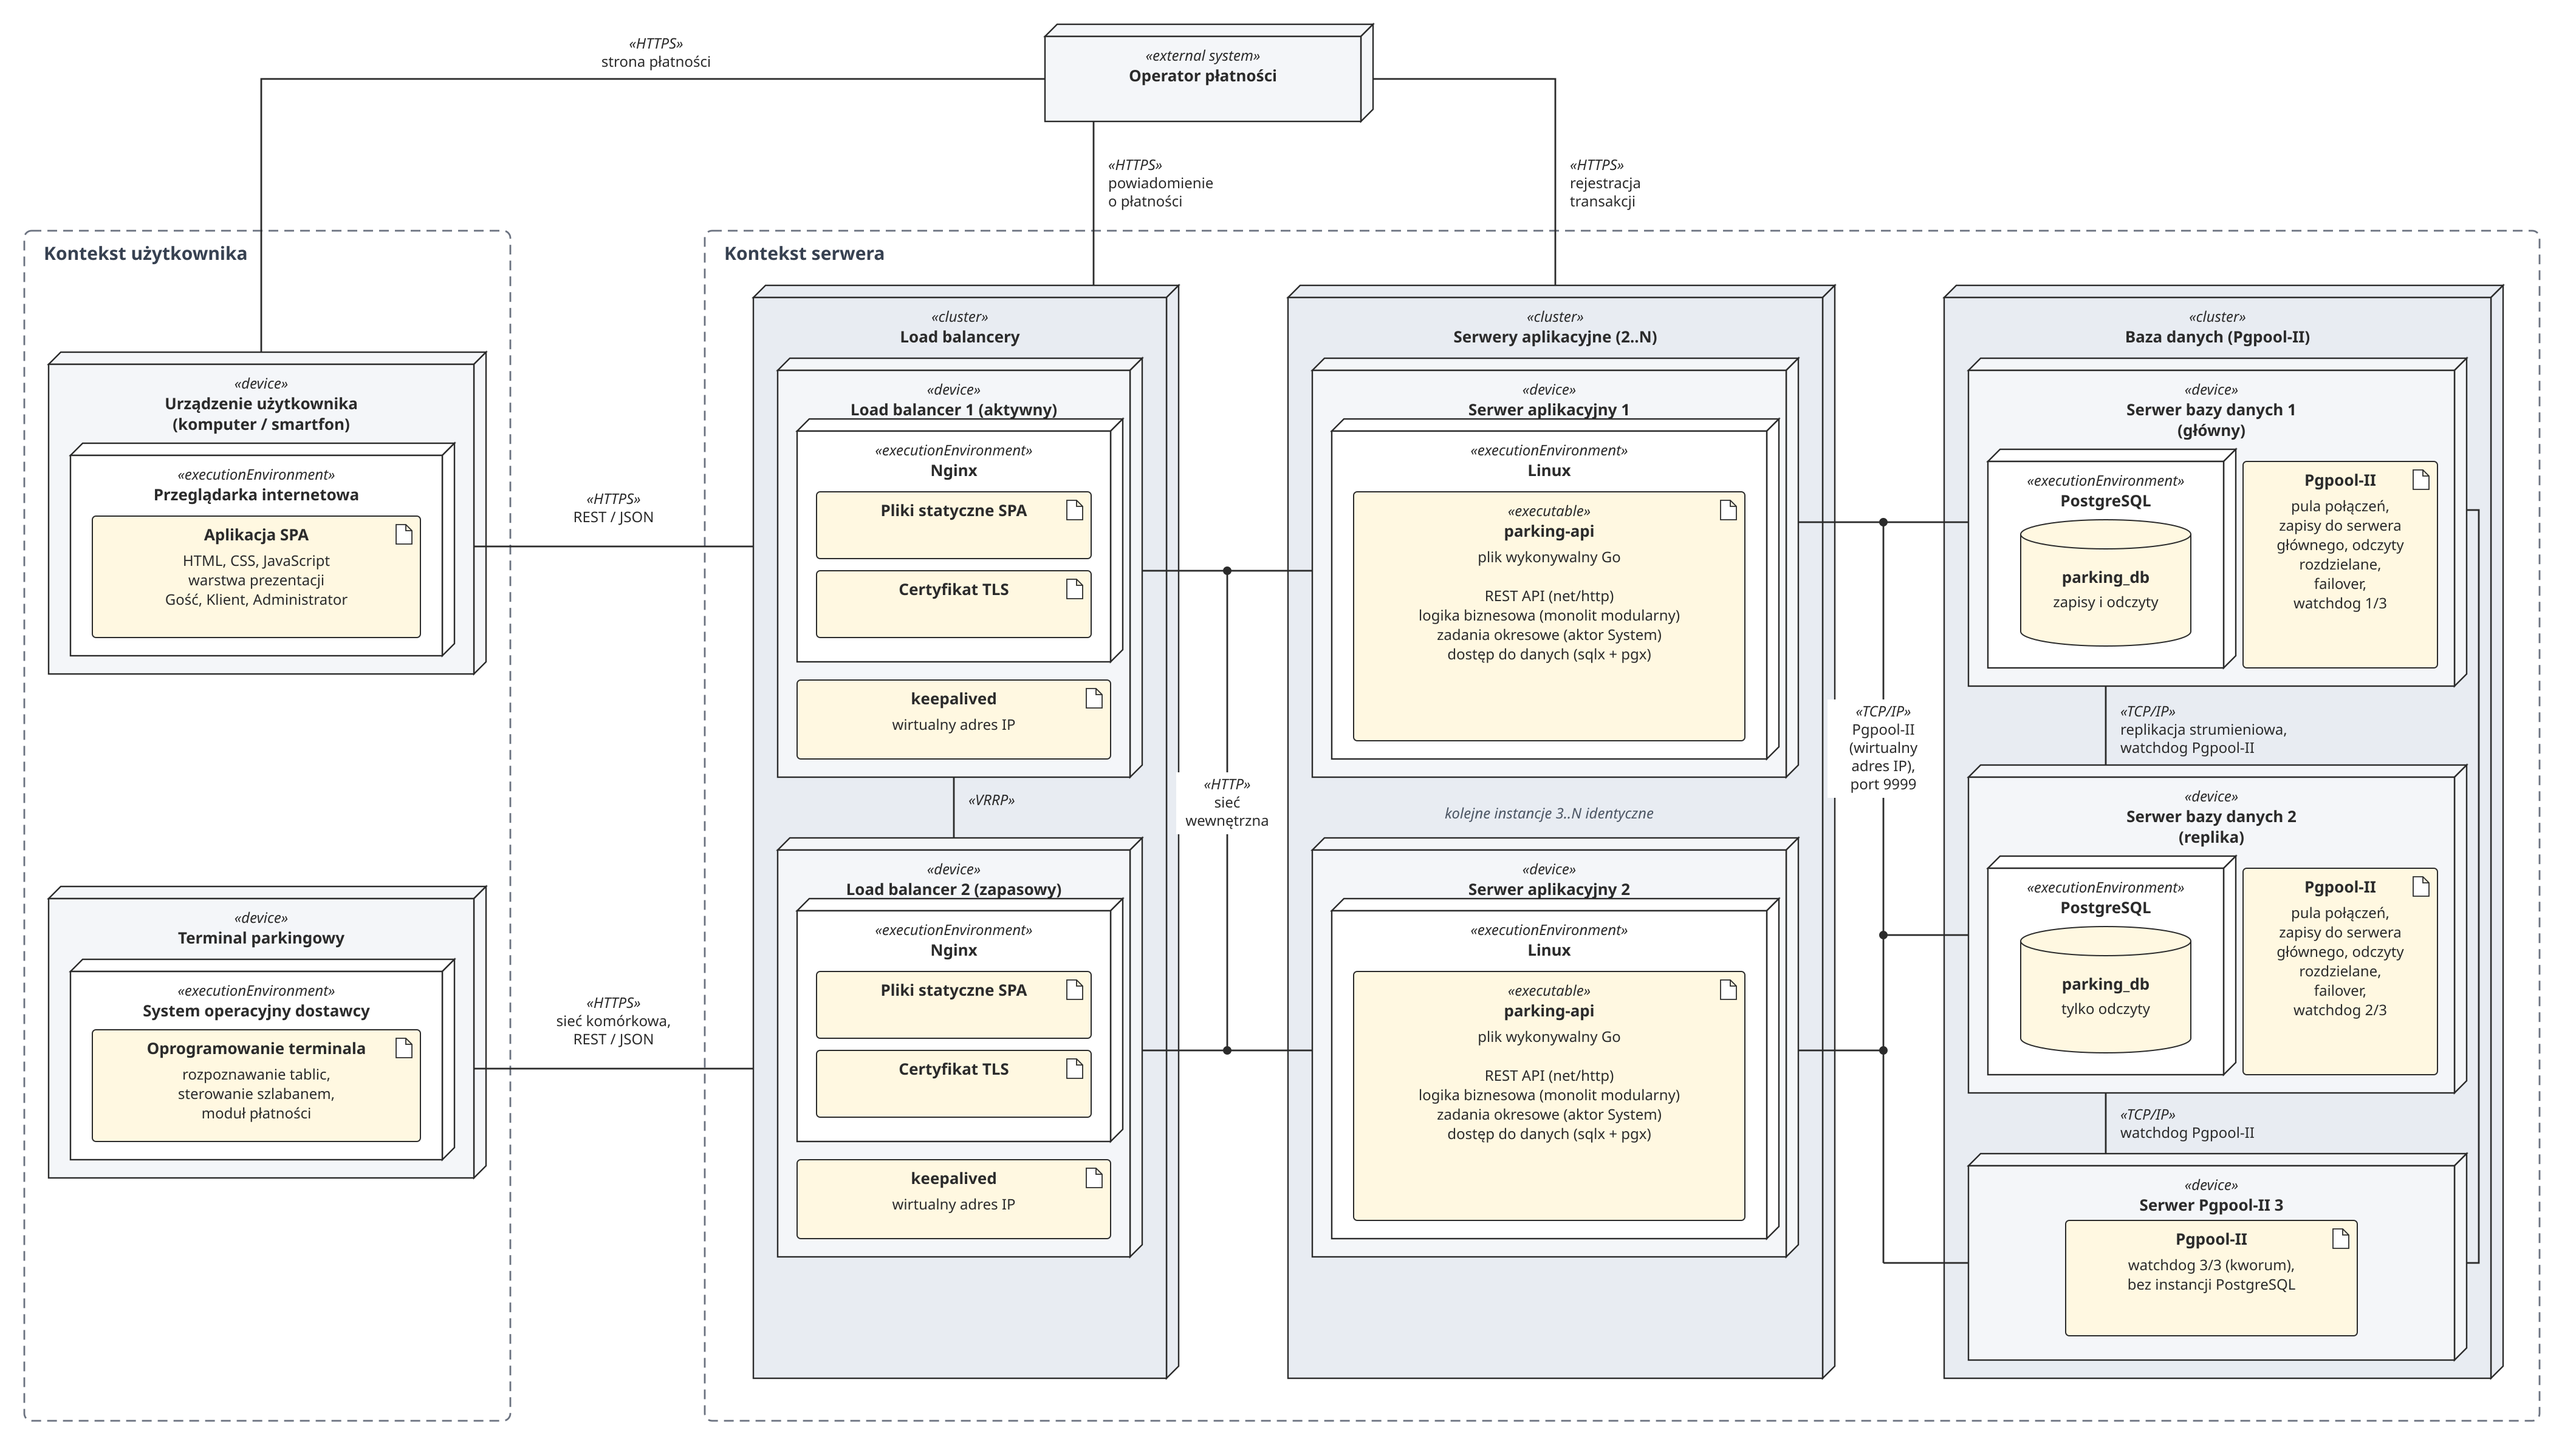
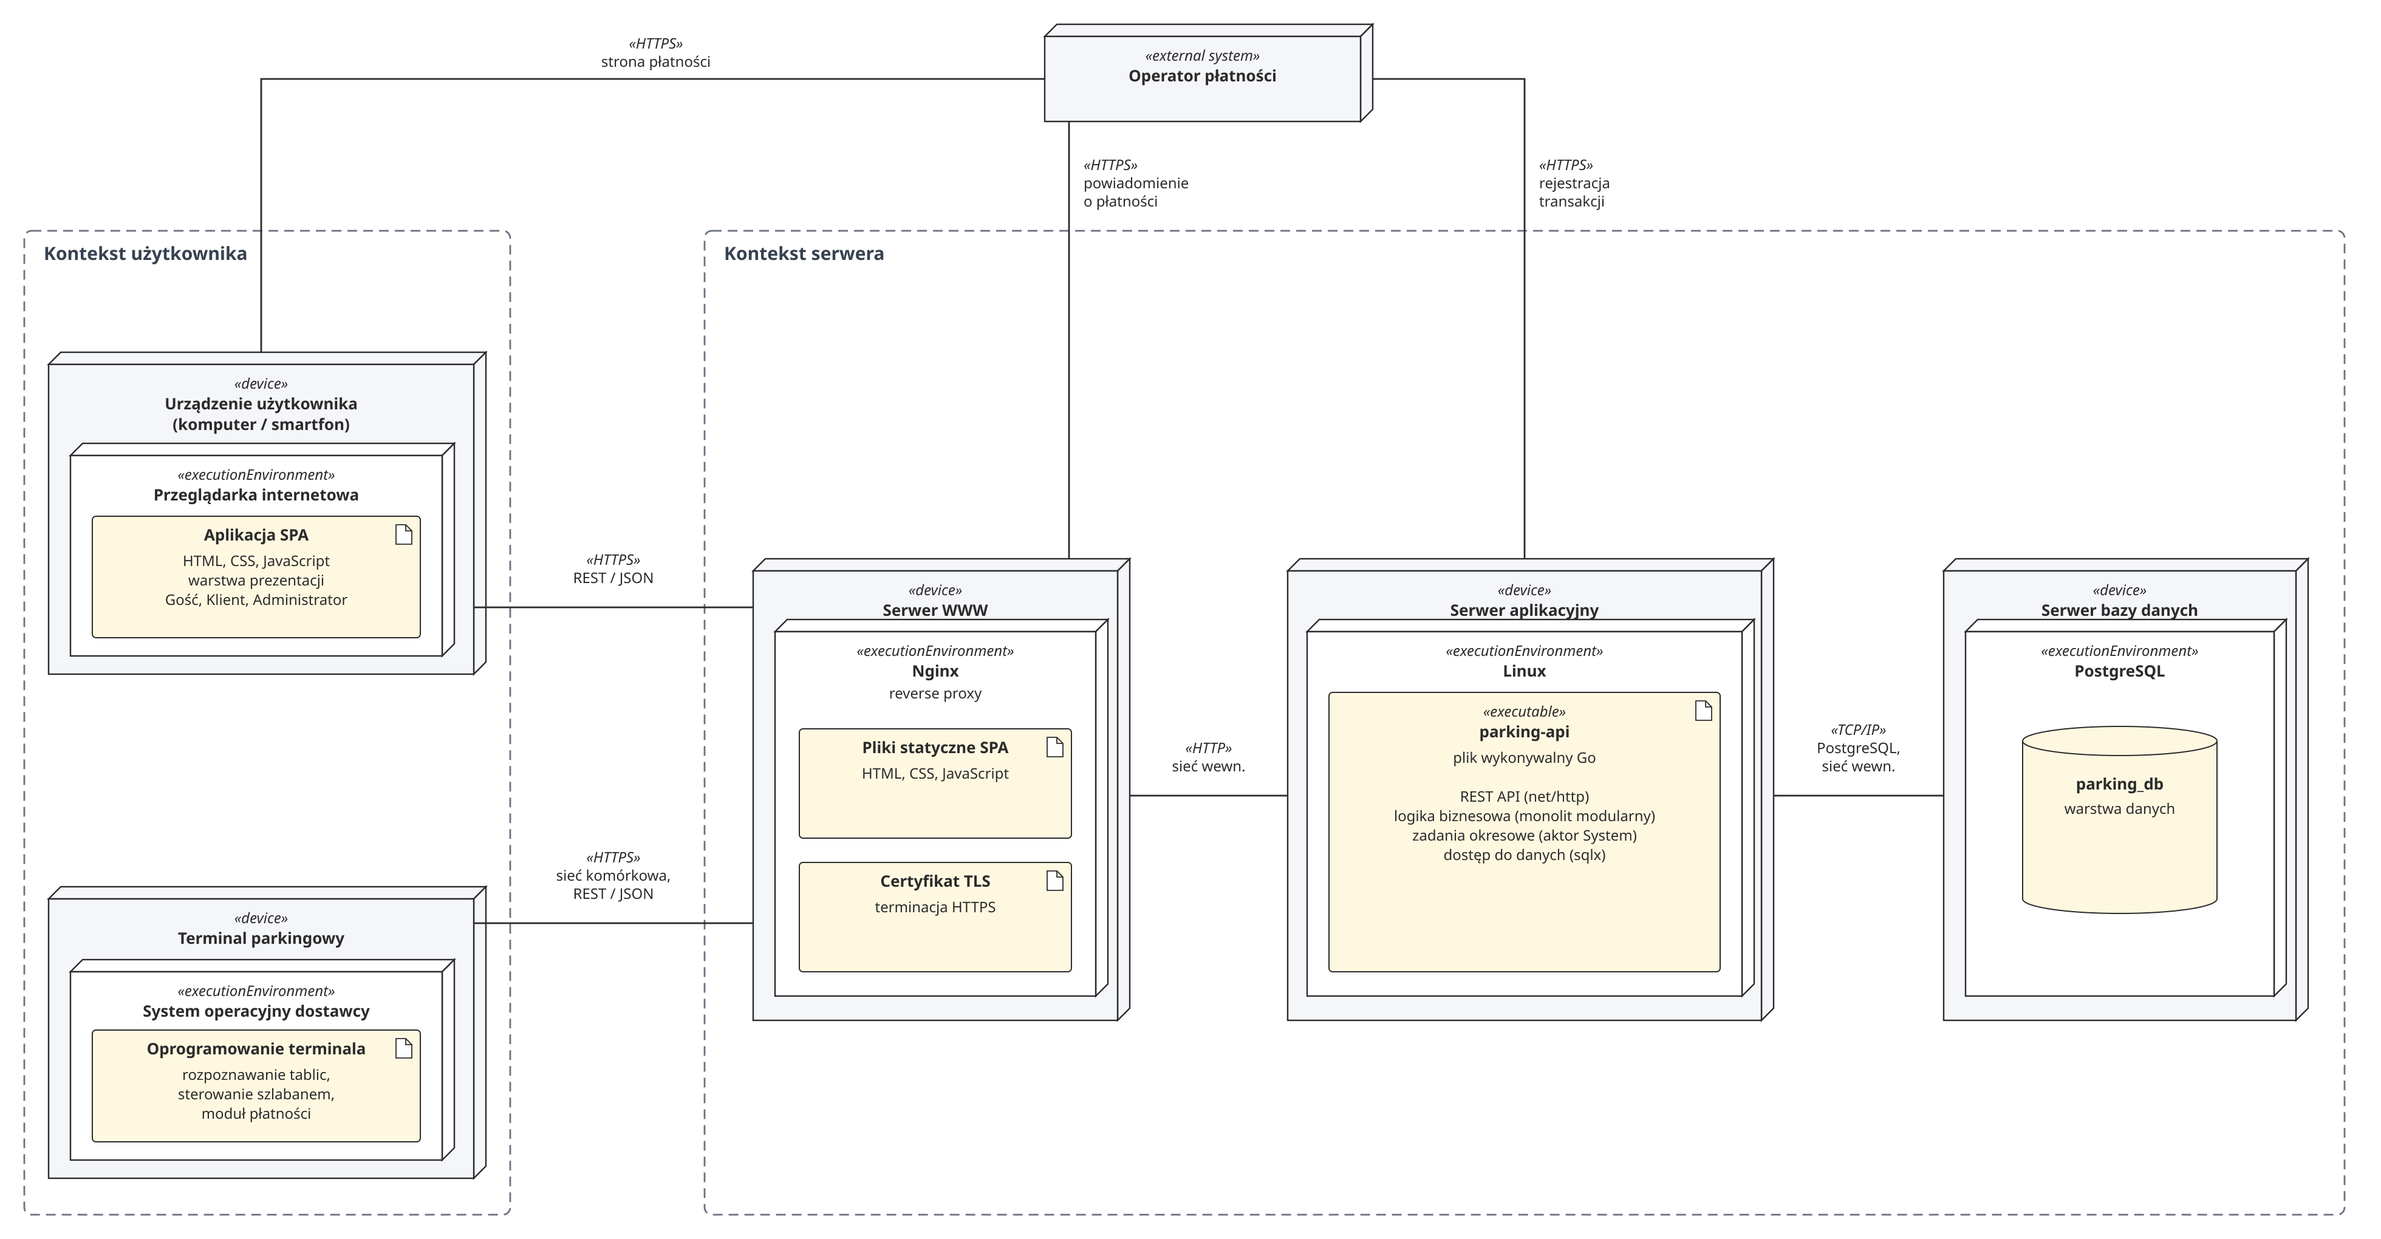
poprawa diagramu

diff --git a/etap2/21architektura.md b/etap2/21architektura.md
@@ -5,87 +5,6 @@
 
 Wykres 3.1.1 - Diagram perspektywy wdrożenia
 
-System składa się z trzech warstw: prezentacji (aplikacja SPA), logiki biznesowej (aplikacja `parking-api` napisana
-w Go) i danych (baza PostgreSQL). Diagram dzieli je na dwa konteksty wykonania.
-
-**Kontekst użytkownika** obejmuje urządzenia, których systemu operacyjnego nie kontrolują administratorzy wdrożenia:
-
-* **Urządzenie użytkownika** (komputer lub smartfon) z przeglądarką internetową. Gość, Klient i Administrator korzystają
-  z tej samej aplikacji SPA (HTML, CSS, JavaScript), która po pobraniu z serwera działa w całości w przeglądarce
-  i komunikuje się z warstwą logiki wyłącznie przez REST API.
-* **Terminal parkingowy** z oprogramowaniem dostawcy, które rozpoznaje tablice rejestracyjne, steruje szlabanem
-  i przyjmuje płatności. Z serwerem łączy się przez wbudowany modem sieci komórkowej. System operacyjny terminala
-  kontroluje dostawca, a nie administratorzy systemu, dlatego terminal jest po stronie kontekstu użytkownika i z punktu
-  widzenia serwera jest takim samym klientem REST API jak aplikacja SPA.
-
-**Kontekst serwera** obejmuje maszyny kontrolowane przez administratorów wdrożenia. Każda warstwa działa w kilku
-instancjach, więc awaria jednej maszyny nie zatrzymuje systemu. Instancje danej warstwy zgrupowano w klastry
-(stereotyp `«cluster»`):
-
-* **Load balancery** - dwie maszyny z Nginx, które udostępniają pliki statyczne aplikacji SPA, terminują połączenia
-  HTTPS (certyfikat TLS) i rozdzielają żądania API między serwery aplikacyjne. Działają w trybie aktywny-zapasowy.
-  Program keepalived utrzymuje jeden wirtualny adres IP, z którym łączą się przeglądarki, terminale i operator
-  płatności. Na co dzień adres obsługuje load balancer 1. Gdy przestaje on odpowiadać, keepalived (protokół VRRP)
-  przenosi adres na load balancer 2, więc klienci nie muszą niczego zmieniać. Load balancery są jedynym elementem
-  kontekstu serwera dostępnym z Internetu.
-* **Serwery aplikacyjne** - co najmniej dwie identyczne maszyny, na każdej działa `parking-api`, czyli jeden plik
-  wykonywalny Go (monolit modularny, rozdz. 4). W jednym procesie działają: REST API oparte na `net/http`, logika
-  biznesowa, zadania okresowe aktora System i dostęp do danych przez `sqlx`
-  ze sterownikiem `pgx`. Instancje nie przechowują stanu, więc
-  load balancer może wysłać każde żądanie do dowolnej z nich, a przy większym ruchu dodaje się kolejne (3..N).
-  Nginx przestaje kierować żądania do serwera, który nie odpowiada (parametry `max_fails` i `fail_timeout`), i wraca
-  do niego, gdy serwer znów działa.
-  Zadania okresowe wykonuje w danej chwili tylko jedna instancja (zob. *Skalowalność*).
-* **Baza danych** - dwa serwery PostgreSQL z bazą `parking_db` oraz trzecia instancja Pgpool-II. Serwer główny
-  przyjmuje wszystkie zapisy, a replika otrzymuje zmiany na bieżąco przez replikację strumieniową. Klastrem zarządza
-  **Pgpool-II**, który działa na wszystkich trzech serwerach i pośredniczy w każdym połączeniu z bazą:
-  * utrzymuje pulę połączeń i ogranicza ich liczbę do PostgreSQL (parametr `num_init_children`), więc nie rośnie ona
-    wraz z liczbą serwerów aplikacyjnych,
-  * kieruje zapisy do serwera głównego, a odczyty rozdziela między oba serwery. Replika, której opóźnienie względem
-    serwera głównego przekracza ustalony próg (`delay_threshold`), jest pomijana przy rozdzielaniu odczytów,
-  * nie rozdziela zapytań `SELECT ... FOR UPDATE` ani zapytań oznaczonych komentarzem `/*NO LOAD BALANCE*/`, tylko
-    zawsze wysyła je do serwera głównego. W ten sposób oznaczane są wszystkie zapytania, na podstawie których zapada
-    decyzja (np. czy jest wolne miejsce przy T1 i P2), więc decyzja nigdy nie opiera się na opóźnionych danych
-    z repliki,
-  * sprawdza, czy serwery PostgreSQL odpowiadają, a po awarii serwera głównego uruchamia skrypt failover
-    (`failover_command`), który awansuje replikę na serwer główny. Uszkodzony serwer po naprawie administrator
-    dołącza z powrotem jako replikę.
-
-  Instancje Pgpool-II pilnują się nawzajem przez mechanizm watchdog i utrzymują jeden wirtualny adres IP, z którym
-  łączą się serwery aplikacyjne (port 9999). Gdy instancja trzymająca adres przestaje działać, przejmuje go inna.
-  Watchdog podejmuje decyzje większością głosów (kworum), dlatego potrzebuje trzech instancji. Trzecia działa na
-  osobnym serwerze bez PostgreSQL i chroni przed sytuacją, w której po utracie łączności oba serwery bazy uznają się
-  za główny. Serwery bazy są dostępne tylko z sieci wewnętrznej.
-
-Połączenia między warstwami nie są pojedynczymi łączami. Każdy load balancer może przekazać żądanie do każdego
-serwera aplikacyjnego, a każdy serwer aplikacyjny łączy się z wirtualnym adresem Pgpool-II, który może przejąć
-dowolna z trzech instancji (na diagramie wspólna linia z rozgałęzieniami). Awaria jednej maszyny w dowolnej warstwie
-nie odcina pozostałych.
-
-Poza oboma kontekstami znajduje się **Operator płatności**, czyli zewnętrzny system obsługujący płatności internetowe
-za rezerwacje (przejście T2). Płatność przebiega w trzech krokach: serwer aplikacyjny rejestruje transakcję
-u operatora, przeglądarka Klienta przechodzi na stronę płatności operatora, a po jej zakończeniu operator powiadamia
-system o wyniku żądaniem HTTPS na wirtualny adres load balancerów. Dopiero to powiadomienie ustawia `isPaid = true`,
-bo przeglądarce nie można ufać, że płatność się powiodła.
-
-Linie między węzłami to ścieżki komunikacyjne, a stereotyp przy każdej z nich wskazuje protokół:
-
-| Ścieżka komunikacyjna                       | Protokół                                                   |
-|---------------------------------------------|------------------------------------------------------------|
-| Urządzenie użytkownika - load balancery     | HTTPS, REST / JSON                                         |
-| Terminal parkingowy - load balancery        | HTTPS przez sieć komórkową, REST / JSON                    |
-| Urządzenie użytkownika - operator płatności | HTTPS (strona płatności operatora)                         |
-| Operator płatności - load balancery         | HTTPS (powiadomienie o wyniku płatności)                   |
-| Serwery aplikacyjne - operator płatności    | HTTPS (rejestracja transakcji)                             |
-| Load balancer 1 - load balancer 2           | VRRP (kontrola, który utrzymuje wirtualny adres)           |
-| Load balancery - serwery aplikacyjne        | HTTP w sieci wewnętrznej                                   |
-| Serwery aplikacyjne - Pgpool-II             | protokół PostgreSQL po TCP (wirtualny adres IP, port 9999) |
-| Pgpool-II - PostgreSQL                      | protokół PostgreSQL po TCP (port 5432)                     |
-| Serwer bazy danych 1 - serwer bazy danych 2 | replikacja strumieniowa PostgreSQL po TCP                  |
-| Instancje Pgpool-II między sobą             | watchdog Pgpool-II po TCP                                  |
-
-Źródło diagramu: `img/wdrozenie.svg` (można edytować np. w Inkscape lub draw.io).
-
 *Stan konwersacyjny*
 
 Stan konwersacyjny systemu z użytkownikiem jest przechowywany w warstwie klienta - w aplikacji SPA uruchamianej w przeglądarce użytkownika systemu. Aplikacja warstwy logiki nie utrzymuje sesji: każde żądanie zawiera token i komplet danych potrzebnych do jego obsługi, dzięki czemu warstwa logiki jest bezstanowa.
